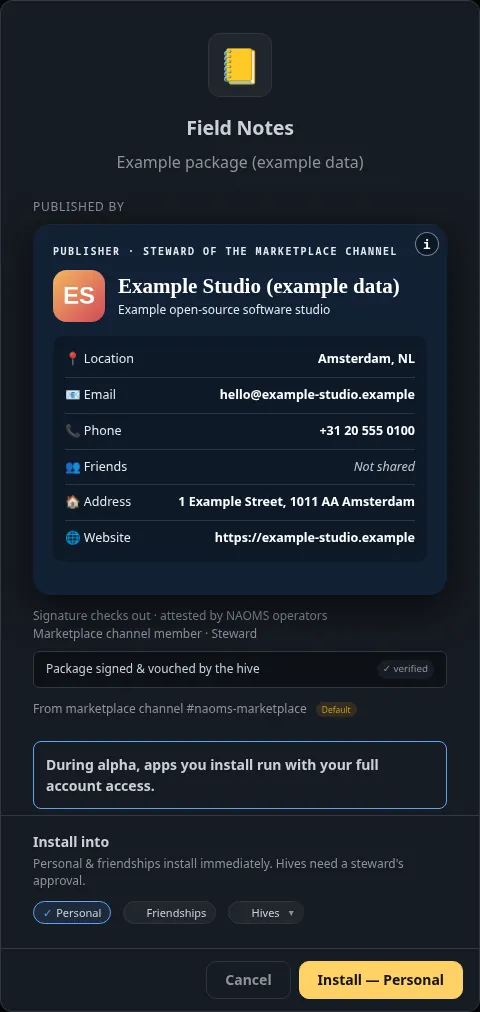
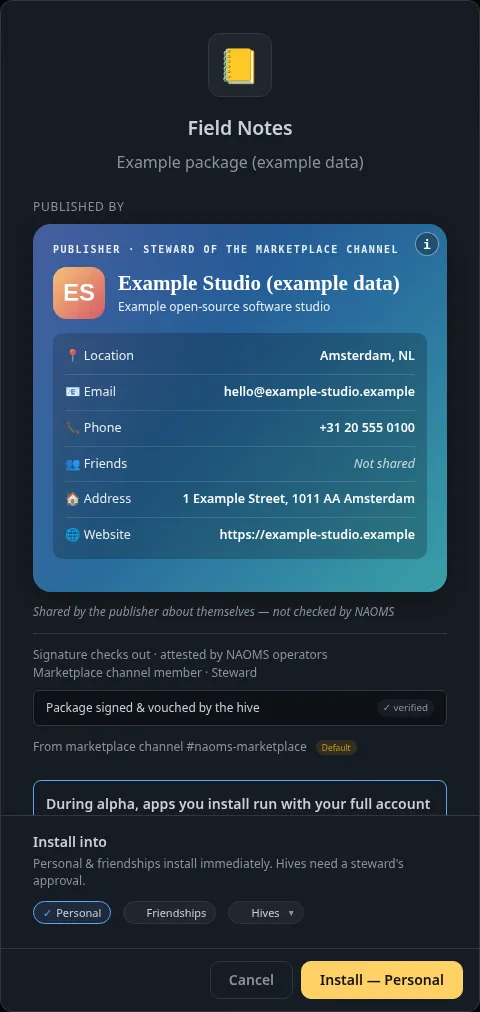
Install-card post: publisher R-card now the gradient business card in light and dark

diff --git a/posts/2026-10-05-the-install-card-now-says-where-a-package-came-from.html b/posts/2026-10-05-the-install-card-now-says-where-a-package-came-from.html
@@ -11,13 +11,14 @@
 <div class="snav"><h4>Categories</h4><a class="facet" data-ft="voice" data-fv="architect" data-label="Architect" href="../archive.html#voice=architect">Architect<span class="n">132</span></a><a class="facet" data-ft="voice" data-fv="philosopher" data-label="Philosopher" href="../archive.html#voice=philosopher">Philosopher<span class="n">35</span></a><a class="facet" data-ft="voice" data-fv="confession" data-label="Confession" href="../archive.html#voice=confession">Confession<span class="n">13</span></a><a class="facet" data-ft="voice" data-fv="journal" data-label="Journal" href="../archive.html#voice=journal">Journal<span class="n">13</span></a><a class="facet" data-ft="voice" data-fv="teacher" data-label="Teacher" href="../archive.html#voice=teacher">Teacher<span class="n">40</span></a><a class="facet" data-ft="voice" data-fv="dispatch" data-label="Dispatch" href="../archive.html#voice=dispatch">Dispatch<span class="n">26</span></a><a class="facet" data-ft="voice" data-fv="appreciation" data-label="Fellow Travelers" href="../archive.html#voice=appreciation">Fellow Travelers<span class="n">19</span></a></div>
 <div class="snav"><h4>Tags</h4><a class="facet" data-ft="tag" data-fv="bug-fixed" data-label="Bug fixed" href="../archive.html#tag=bug-fixed">Bug fixed<span class="n">33</span></a></div>
 <div class="snav"><h4>Months</h4><a class="facet" data-ft="month" data-fv="2026-10" data-label="October 2026" href="../archive.html#month=2026-10">October 2026</a><a class="facet" data-ft="month" data-fv="2026-09" data-label="September 2026" href="../archive.html#month=2026-09">September 2026</a><a class="facet" data-ft="month" data-fv="2026-08" data-label="August 2026" href="../archive.html#month=2026-08">August 2026</a><a class="facet" data-ft="month" data-fv="2026-07" data-label="July 2026" href="../archive.html#month=2026-07">July 2026</a><a class="facet" data-ft="month" data-fv="2026-06" data-label="June 2026" href="../archive.html#month=2026-06">June 2026</a><a class="facet" data-ft="month" data-fv="2026-05" data-label="May 2026" href="../archive.html#month=2026-05">May 2026</a><a class="facet" data-ft="month" data-fv="2026-04" data-label="April 2026" href="../archive.html#month=2026-04">April 2026</a><a class="facet" data-ft="month" data-fv="2026-03" data-label="March 2026" href="../archive.html#month=2026-03">March 2026</a></div><div class="snav"><h4>Weeks</h4><a class="facet" data-ft="week" data-fv="30" data-label="Wk 30" href="../archive.html#week=30">Wk 30<span class="n">Oct 5 – Oct 5</span></a><a class="facet" data-ft="week" data-fv="29" data-label="Wk 29" href="../archive.html#week=29">Wk 29<span class="n">Sep 28 – Oct 4</span></a><a class="facet" data-ft="week" data-fv="28" data-label="Wk 28" href="../archive.html#week=28">Wk 28<span class="n">Sep 21 – Sep 27</span></a><a class="facet" data-ft="week" data-fv="27" data-label="Wk 27" href="../archive.html#week=27">Wk 27<span class="n">Sep 14 – Sep 20</span></a><a class="facet" data-ft="week" data-fv="26" data-label="Wk 26" href="../archive.html#week=26">Wk 26<span class="n">Sep 7 – Sep 13</span></a><a class="facet" data-ft="week" data-fv="25" data-label="Wk 25" href="../archive.html#week=25">Wk 25<span class="n">Aug 31 – Sep 6</span></a><a class="facet" data-ft="week" data-fv="24" data-label="Wk 24" href="../archive.html#week=24">Wk 24<span class="n">Aug 24 – Aug 30</span></a><a class="facet" data-ft="week" data-fv="23" data-label="Wk 23" href="../archive.html#week=23">Wk 23<span class="n">Aug 17 – Aug 23</span></a><a class="facet" data-ft="week" data-fv="22" data-label="Wk 22" href="../archive.html#week=22">Wk 22<span class="n">Aug 10 – Aug 16</span></a><a class="facet" data-ft="week" data-fv="21" data-label="Wk 21" href="../archive.html#week=21">Wk 21<span class="n">Aug 3 – Aug 9</span></a><a class="facet" data-ft="week" data-fv="20" data-label="Wk 20" href="../archive.html#week=20">Wk 20<span class="n">Jul 27 – Aug 2</span></a><a class="facet" data-ft="week" data-fv="19" data-label="Wk 19" href="../archive.html#week=19">Wk 19<span class="n">Jul 20 – Jul 26</span></a><a class="facet" data-ft="week" data-fv="18" data-label="Wk 18" href="../archive.html#week=18">Wk 18<span class="n">Jul 13 – Jul 19</span></a><a class="facet" data-ft="week" data-fv="17" data-label="Wk 17" href="../archive.html#week=17">Wk 17<span class="n">Jul 6 – Jul 12</span></a><a class="facet" data-ft="week" data-fv="16" data-label="Wk 16" href="../archive.html#week=16">Wk 16<span class="n">Jun 29 – Jul 5</span></a><a class="facet" data-ft="week" data-fv="15" data-label="Wk 15" href="../archive.html#week=15">Wk 15<span class="n">Jun 22 – Jun 28</span></a><a class="facet" data-ft="week" data-fv="14" data-label="Wk 14" href="../archive.html#week=14">Wk 14<span class="n">Jun 15 – Jun 21</span></a><a class="facet" data-ft="week" data-fv="13" data-label="Wk 13" href="../archive.html#week=13">Wk 13<span class="n">Jun 8 – Jun 14</span></a><a class="facet" data-ft="week" data-fv="12" data-label="Wk 12" href="../archive.html#week=12">Wk 12<span class="n">Jun 1 – Jun 7</span></a><a class="facet" data-ft="week" data-fv="11" data-label="Wk 11" href="../archive.html#week=11">Wk 11<span class="n">May 25 – May 31</span></a><a class="facet" data-ft="week" data-fv="10" data-label="Wk 10" href="../archive.html#week=10">Wk 10<span class="n">May 18 – May 24</span></a><a class="facet" data-ft="week" data-fv="9" data-label="Wk 9" href="../archive.html#week=9">Wk 9<span class="n">May 11 – May 17</span></a><a class="facet" data-ft="week" data-fv="8" data-label="Wk 8" href="../archive.html#week=8">Wk 8<span class="n">May 4 – May 10</span></a><a class="facet" data-ft="week" data-fv="7" data-label="Wk 7" href="../archive.html#week=7">Wk 7<span class="n">Apr 27 – May 3</span></a><a class="facet" data-ft="week" data-fv="6" data-label="Wk 6" href="../archive.html#week=6">Wk 6<span class="n">Apr 20 – Apr 26</span></a><a class="facet" data-ft="week" data-fv="5" data-label="Wk 5" href="../archive.html#week=5">Wk 5<span class="n">Apr 13 – Apr 19</span></a><a class="facet" data-ft="week" data-fv="4" data-label="Wk 4" href="../archive.html#week=4">Wk 4<span class="n">Apr 6 – Apr 12</span></a><a class="facet" data-ft="week" data-fv="3" data-label="Wk 3" href="../archive.html#week=3">Wk 3<span class="n">Mar 30 – Apr 5</span></a><a class="facet" data-ft="week" data-fv="2" data-label="Wk 2" href="../archive.html#week=2">Wk 2<span class="n">Mar 23 – Mar 29</span></a><a class="facet" data-ft="week" data-fv="1" data-label="Wk 1" href="../archive.html#week=1">Wk 1<span class="n">Mar 16 – Mar 22</span></a></div>
-<p style="font-size:11px;color:var(--muted);line-height:1.45;margin-top:-2px">Pick one per group on the <a href="../archive.html">All</a> page; choices from different groups narrow together (e.g. Technology&nbsp;+&nbsp;Teacher).</p></aside><div class="content"><article class="post"><h1>The install card now says where a package came from</h1><p class="subtitle">Before you install, the card names the publisher and whether the signature checks out, and for a package offered through a channel it also says which channel and whether you have vouched for it.</p><div class="meta"><span class="badge str-product">Product</span> <span class="badge b-teacher">Teacher</span> <span class="badge free">free</span> <span>October 5, 2026</span><span>·</span><span>6 min read</span><span>·</span><span>craft</span></div><div class="tldr"><span class="tldr-k">TL;DR</span> The consent card shown before you install a package shows the publisher's business card and says whether the release signature checks out. When the package was offered through a channel, it also says which channel and your standing with it. A channel is either the build's default, one you have verified yourself, or an unverified one. On an unverified channel a hive install is refused and a personal install needs your explicit confirmation. A 'Verify this channel' button records your decision on your own device. This build pins no default channel yet.</div><div class="markdown-body"><p>Installing software is a trust decision made in a few seconds, on one small card. This post is about what that card now tells you.</p>
-<p><img src="assets/2026-10-05-install-card-rcard-light.webp" alt="The install card for a sample package called &quot;Field Notes&quot; (description &quot;Example package (example data)&quot;) in the light theme. Under the heading &quot;Published by&quot; is the publisher's business card, drawn dark: a header &quot;Publisher · Steward of the marketplace channel&quot;, the initials &quot;ES&quot; as the avatar, the name &quot;Example Studio (example data)&quot; and the tagline &quot;Example open-source software studio&quot;. Its rows read Location Amsterdam, NL; Email hello@example-studio.example; Phone +31 20 555 0100; Friends Not shared; Address 1 Example Street, 1011 AA Amsterdam; Website https://example-studio.example. Below the card: &quot;Signature checks out · attested by NAOMS operators&quot;, &quot;Marketplace channel member · Steward&quot;, a box &quot;Package signed &amp; vouched by the hive&quot; with a &quot;verified&quot; badge, and &quot;From marketplace channel #naoms-marketplace&quot; with a &quot;Default&quot; badge. Then a notice &quot;During alpha, apps you install run with your full account access.&quot;, the Install into choices Personal, Friendships and Hives, and the Cancel and &quot;Install — Personal&quot; buttons. Sample data on a test setup; the Default badge is there because the sample data sets it." /></p>
+<p style="font-size:11px;color:var(--muted);line-height:1.45;margin-top:-2px">Pick one per group on the <a href="../archive.html">All</a> page; choices from different groups narrow together (e.g. Technology&nbsp;+&nbsp;Teacher).</p></aside><div class="content"><article class="post"><h1>The install card now says where a package came from</h1><p class="subtitle">Before you install, the card names the publisher and whether the signature checks out, and for a package offered through a channel it also says which channel and whether you have vouched for it.</p><div class="meta"><span class="badge str-product">Product</span> <span class="badge b-teacher">Teacher</span> <span class="badge free">free</span> <span>October 5, 2026</span><span>·</span><span>7 min read</span><span>·</span><span>craft</span></div><div class="tldr"><span class="tldr-k">TL;DR</span> The consent card shown before you install a package shows the publisher's business card and says whether the release signature checks out. When the package was offered through a channel, it also says which channel and your standing with it. A channel is either the build's default, one you have verified yourself, or an unverified one. On an unverified channel a hive install is refused and a personal install needs your explicit confirmation. A 'Verify this channel' button records your decision on your own device. This build pins no default channel yet.</div><div class="markdown-body"><p>Installing software is a trust decision made in a few seconds, on one small card. This post is about what that card now tells you.</p>
+<p><img src="assets/2026-10-05-install-card-rcard-light.webp" alt="The install card for a sample package called &quot;Field Notes&quot; (description &quot;Example package (example data)&quot;) in the light theme. Under the heading &quot;Published by&quot; is the publisher's business card, drawn as a blue-to-teal gradient card: a header &quot;Publisher · Steward of the marketplace channel&quot;, the initials &quot;ES&quot; as the avatar, the name &quot;Example Studio (example data)&quot; and the tagline &quot;Example open-source software studio&quot;. Its rows read Location Amsterdam, NL; Email hello@example-studio.example; Phone +31 20 555 0100; Friends Not shared; Address 1 Example Street, 1011 AA Amsterdam; Website https://example-studio.example. Below the card, in small italic text: &quot;Shared by the publisher about themselves — not checked by NAOMS&quot;, then a thin rule, then &quot;Signature checks out · attested by NAOMS operators&quot;, &quot;Marketplace channel member · Steward&quot;, a box &quot;Package signed &amp; vouched by the hive&quot; with a &quot;verified&quot; badge, and &quot;From marketplace channel #naoms-marketplace&quot; with a &quot;Default&quot; badge. Then the start of a notice &quot;During alpha, apps you install run with your full account access&quot; (cut off at its lower edge by the Install into area), the Install into choices Personal, Friendships and Hives, and the Cancel and &quot;Install — Personal&quot; buttons. Sample data on a test setup; the Default badge is there because the sample data sets it." /></p>
 <h2 id="some-words-first"><a class="anchor" aria-hidden="true" tabindex="-1" href="#some-words-first"><svg class="octicon octicon-link" viewBox="0 0 16 16" width="16" height="16" aria-hidden="true"><path fill-rule="evenodd" d="M7.775 3.275a.75.75 0 001.06 1.06l1.25-1.25a2 2 0 112.83 2.83l-2.5 2.5a2 2 0 01-2.83 0 .75.75 0 00-1.06 1.06 3.5 3.5 0 004.95 0l2.5-2.5a3.5 3.5 0 00-4.95-4.95l-1.25 1.25zm-4.69 9.64a2 2 0 010-2.83l2.5-2.5a2 2 0 012.83 0 .75.75 0 001.06-1.06 3.5 3.5 0 00-4.95 0l-2.5 2.5a3.5 3.5 0 004.95 4.95l1.25-1.25a.75.75 0 00-1.06-1.06l-1.25 1.25a2 2 0 01-2.83 0z"></path></svg></a>Some words first</h2>
 <p>A <strong>package</strong> is an installable piece of software. A <strong>publisher</strong> is whoever released it. Each release is <strong>signed</strong>: the publisher's device attaches a mathematical stamp that only their key can produce, so a change to the package after signing would make the stamp stop matching. A <strong>hive</strong> is a group of people sharing a record; a <strong>channel</strong> is a shared space inside a hive where members announce things; a <strong>steward</strong> is a person with authority over a channel. A <strong>marketplace channel</strong> is a channel a steward has authorised as a place where packages are announced.</p>
 <h2 id="what-the-card-shows"><a class="anchor" aria-hidden="true" tabindex="-1" href="#what-the-card-shows"><svg class="octicon octicon-link" viewBox="0 0 16 16" width="16" height="16" aria-hidden="true"><path fill-rule="evenodd" d="M7.775 3.275a.75.75 0 001.06 1.06l1.25-1.25a2 2 0 112.83 2.83l-2.5 2.5a2 2 0 01-2.83 0 .75.75 0 00-1.06 1.06 3.5 3.5 0 004.95 0l2.5-2.5a3.5 3.5 0 00-4.95-4.95l-1.25 1.25zm-4.69 9.64a2 2 0 010-2.83l2.5-2.5a2 2 0 012.83 0 .75.75 0 001.06-1.06 3.5 3.5 0 00-4.95 0l-2.5 2.5a3.5 3.5 0 004.95 4.95l1.25-1.25a.75.75 0 00-1.06-1.06l-1.25 1.25a2 2 0 01-2.83 0z"></path></svg></a>What the card shows</h2>
 <p>The pictures below are the install card in the app, with sample data on a test setup: the package is a made-up "Field Notes" and the publisher a made-up "Example Studio". The "Default" badge and the "attested by NAOMS operators" line appear in these pictures only because the sample data sets them. This build pins no default channel yet (more on that below).</p>
-<p><img src="assets/2026-10-05-install-card-rcard-dark.webp" alt="The same install card in the dark theme: same package, same business card for &quot;Example Studio (example data)&quot; with the same rows, same signature and channel lines including the &quot;Default&quot; badge from the sample data, and the same Install into choices with Cancel and &quot;Install — Personal&quot;." /></p>
+<p><img src="assets/2026-10-05-install-card-rcard-dark.webp" alt="The same install card in the dark theme: same package, the same gradient business card for &quot;Example Studio (example data)&quot; with the same rows, then the same italic note, the thin rule, the signature lines, the &quot;verified&quot; badge on the package box and the channel line with the &quot;Default&quot; badge from the sample data, and the same Install into choices with Cancel and &quot;Install — Personal&quot;. Sample data on a test setup; the Default badge is there because the sample data sets it." /></p>
+<p>The business card uses the same blue-to-teal gradient business-card look as the app's other R-cards, in both the light and the dark theme.</p>
 <p>When the device holds no card for the publisher, the Published by area says so instead:</p>
 <p><img src="assets/2026-10-05-install-card-nocard-light.webp" alt="The same install card in the light theme, but under &quot;Published by&quot; there is a dashed box reading &quot;No business card shared by this publisher&quot;. The signature, member and channel lines and the &quot;Default&quot; badge are unchanged from the sample data. Below the notice, a section &quot;Declared by the publisher — not enforced yet&quot; lists one item, &quot;storage.read&quot;. Sample data on a test setup." /></p>
 <p>Reading the card from the top:</p>

diff --git a/stream-product.html b/stream-product.html
@@ -13,7 +13,7 @@
 <div class="snav"><h4>Months</h4><a class="facet" data-ft="month" data-fv="2026-10" data-label="October 2026" href="archive.html#month=2026-10">October 2026</a><a class="facet" data-ft="month" data-fv="2026-09" data-label="September 2026" href="archive.html#month=2026-09">September 2026</a><a class="facet" data-ft="month" data-fv="2026-08" data-label="August 2026" href="archive.html#month=2026-08">August 2026</a><a class="facet" data-ft="month" data-fv="2026-07" data-label="July 2026" href="archive.html#month=2026-07">July 2026</a><a class="facet" data-ft="month" data-fv="2026-06" data-label="June 2026" href="archive.html#month=2026-06">June 2026</a><a class="facet" data-ft="month" data-fv="2026-05" data-label="May 2026" href="archive.html#month=2026-05">May 2026</a><a class="facet" data-ft="month" data-fv="2026-04" data-label="April 2026" href="archive.html#month=2026-04">April 2026</a><a class="facet" data-ft="month" data-fv="2026-03" data-label="March 2026" href="archive.html#month=2026-03">March 2026</a></div><div class="snav"><h4>Weeks</h4><a class="facet" data-ft="week" data-fv="30" data-label="Wk 30" href="archive.html#week=30">Wk 30<span class="n">Oct 5 – Oct 5</span></a><a class="facet" data-ft="week" data-fv="29" data-label="Wk 29" href="archive.html#week=29">Wk 29<span class="n">Sep 28 – Oct 4</span></a><a class="facet" data-ft="week" data-fv="28" data-label="Wk 28" href="archive.html#week=28">Wk 28<span class="n">Sep 21 – Sep 27</span></a><a class="facet" data-ft="week" data-fv="27" data-label="Wk 27" href="archive.html#week=27">Wk 27<span class="n">Sep 14 – Sep 20</span></a><a class="facet" data-ft="week" data-fv="26" data-label="Wk 26" href="archive.html#week=26">Wk 26<span class="n">Sep 7 – Sep 13</span></a><a class="facet" data-ft="week" data-fv="25" data-label="Wk 25" href="archive.html#week=25">Wk 25<span class="n">Aug 31 – Sep 6</span></a><a class="facet" data-ft="week" data-fv="24" data-label="Wk 24" href="archive.html#week=24">Wk 24<span class="n">Aug 24 – Aug 30</span></a><a class="facet" data-ft="week" data-fv="23" data-label="Wk 23" href="archive.html#week=23">Wk 23<span class="n">Aug 17 – Aug 23</span></a><a class="facet" data-ft="week" data-fv="22" data-label="Wk 22" href="archive.html#week=22">Wk 22<span class="n">Aug 10 – Aug 16</span></a><a class="facet" data-ft="week" data-fv="21" data-label="Wk 21" href="archive.html#week=21">Wk 21<span class="n">Aug 3 – Aug 9</span></a><a class="facet" data-ft="week" data-fv="20" data-label="Wk 20" href="archive.html#week=20">Wk 20<span class="n">Jul 27 – Aug 2</span></a><a class="facet" data-ft="week" data-fv="19" data-label="Wk 19" href="archive.html#week=19">Wk 19<span class="n">Jul 20 – Jul 26</span></a><a class="facet" data-ft="week" data-fv="18" data-label="Wk 18" href="archive.html#week=18">Wk 18<span class="n">Jul 13 – Jul 19</span></a><a class="facet" data-ft="week" data-fv="17" data-label="Wk 17" href="archive.html#week=17">Wk 17<span class="n">Jul 6 – Jul 12</span></a><a class="facet" data-ft="week" data-fv="16" data-label="Wk 16" href="archive.html#week=16">Wk 16<span class="n">Jun 29 – Jul 5</span></a><a class="facet" data-ft="week" data-fv="15" data-label="Wk 15" href="archive.html#week=15">Wk 15<span class="n">Jun 22 – Jun 28</span></a><a class="facet" data-ft="week" data-fv="14" data-label="Wk 14" href="archive.html#week=14">Wk 14<span class="n">Jun 15 – Jun 21</span></a><a class="facet" data-ft="week" data-fv="13" data-label="Wk 13" href="archive.html#week=13">Wk 13<span class="n">Jun 8 – Jun 14</span></a><a class="facet" data-ft="week" data-fv="12" data-label="Wk 12" href="archive.html#week=12">Wk 12<span class="n">Jun 1 – Jun 7</span></a><a class="facet" data-ft="week" data-fv="11" data-label="Wk 11" href="archive.html#week=11">Wk 11<span class="n">May 25 – May 31</span></a><a class="facet" data-ft="week" data-fv="10" data-label="Wk 10" href="archive.html#week=10">Wk 10<span class="n">May 18 – May 24</span></a><a class="facet" data-ft="week" data-fv="9" data-label="Wk 9" href="archive.html#week=9">Wk 9<span class="n">May 11 – May 17</span></a><a class="facet" data-ft="week" data-fv="8" data-label="Wk 8" href="archive.html#week=8">Wk 8<span class="n">May 4 – May 10</span></a><a class="facet" data-ft="week" data-fv="7" data-label="Wk 7" href="archive.html#week=7">Wk 7<span class="n">Apr 27 – May 3</span></a><a class="facet" data-ft="week" data-fv="6" data-label="Wk 6" href="archive.html#week=6">Wk 6<span class="n">Apr 20 – Apr 26</span></a><a class="facet" data-ft="week" data-fv="5" data-label="Wk 5" href="archive.html#week=5">Wk 5<span class="n">Apr 13 – Apr 19</span></a><a class="facet" data-ft="week" data-fv="4" data-label="Wk 4" href="archive.html#week=4">Wk 4<span class="n">Apr 6 – Apr 12</span></a><a class="facet" data-ft="week" data-fv="3" data-label="Wk 3" href="archive.html#week=3">Wk 3<span class="n">Mar 30 – Apr 5</span></a><a class="facet" data-ft="week" data-fv="2" data-label="Wk 2" href="archive.html#week=2">Wk 2<span class="n">Mar 23 – Mar 29</span></a><a class="facet" data-ft="week" data-fv="1" data-label="Wk 1" href="archive.html#week=1">Wk 1<span class="n">Mar 16 – Mar 22</span></a></div>
 <p style="font-size:11px;color:var(--muted);line-height:1.45;margin-top:-2px">Pick one per group on the <a href="archive.html">All</a> page; choices from different groups narrow together (e.g. Technology&nbsp;+&nbsp;Teacher).</p></aside><div class="content"><div class="streamhead" style="--dc:var(--ok);--dbg:var(--ok-bg)"><div class="eyebrow" style="color:var(--ok)">Stream</div><h2>Product</h2><p>What you can do with it, and what comes next — for people who'd build with NAOMS.</p><p class="streamgoal"><strong>Where this is going:</strong> Software you can build on that never holds your users' data hostage.</p></div><div class="card"><div class="card-body"><div class="meta"><span class="badge str-product">Product</span> <span class="badge b-teacher">Teacher</span>  <span class="badge free">free</span><span>October 5, 2026</span><span>·</span><span>4 min read</span><span>·</span><span>craft</span></div>
 <h3><a href="posts/2026-10-05-a-store-section-for-the-channels-that-offer-packages.html">A store section for the channels that offer packages</a></h3><p class="sum">The Packages store has a new 'Marketplace channels' section at the bottom of its Discover page. It lists the channels, from the hives your device belongs to, that a steward has authorised as places packages are offered. Each row shows the channel's name, a Joined mark if you are in it, and a Join button only when joining is allowed for you. Channels you have joined come ahead of the rest, after the default if there is one. A failed read is shown as an error, not as an empty list. A 'Default' badge exists but no channel carries it in this build yet.</p></div></div><div class="card"><div class="card-body"><div class="meta"><span class="badge str-product">Product</span> <span class="badge b-teacher">Teacher</span>  <span class="badge free">free</span><span>October 5, 2026</span><span>·</span><span>4 min read</span><span>·</span><span>craft</span></div>
-<h3><a href="posts/2026-10-05-a-store-you-can-look-at-with-a-bug-button-on-every-page.html">A store you can look at, with a bug button on every listing</a></h3><p class="sum">Two sets of changes to the in-app store. First, listings now look like a store: banners shown whole at a fixed shape, a strip of screenshots you can open full size, light and dark artwork that follows your theme, a maturity badge such as Beta, and a featured band sized to stay within about 70% of the window's height. Second, package and model listing pages have a Report a bug button. On a device set up to file reports it shows who can read the report, 'the NAOMS maintainers' repo channel', before you write anything. On a device that is not set up it stays disabled, with a reason.</p></div><div class="card-thumb"><img src="posts/assets/2026-10-05-listing-report-a-bug-dark.webp" alt="" loading="lazy"></div></div><div class="card"><div class="card-body"><div class="meta"><span class="badge str-product">Product</span> <span class="badge b-teacher">Teacher</span>  <span class="badge free">free</span><span>October 5, 2026</span><span>·</span><span>6 min read</span><span>·</span><span>craft</span></div>
+<h3><a href="posts/2026-10-05-a-store-you-can-look-at-with-a-bug-button-on-every-page.html">A store you can look at, with a bug button on every listing</a></h3><p class="sum">Two sets of changes to the in-app store. First, listings now look like a store: banners shown whole at a fixed shape, a strip of screenshots you can open full size, light and dark artwork that follows your theme, a maturity badge such as Beta, and a featured band sized to stay within about 70% of the window's height. Second, package and model listing pages have a Report a bug button. On a device set up to file reports it shows who can read the report, 'the NAOMS maintainers' repo channel', before you write anything. On a device that is not set up it stays disabled, with a reason.</p></div><div class="card-thumb"><img src="posts/assets/2026-10-05-listing-report-a-bug-dark.webp" alt="" loading="lazy"></div></div><div class="card"><div class="card-body"><div class="meta"><span class="badge str-product">Product</span> <span class="badge b-teacher">Teacher</span>  <span class="badge free">free</span><span>October 5, 2026</span><span>·</span><span>7 min read</span><span>·</span><span>craft</span></div>
 <h3><a href="posts/2026-10-05-the-install-card-now-says-where-a-package-came-from.html">The install card now says where a package came from</a></h3><p class="sum">The consent card shown before you install a package shows the publisher's business card and says whether the release signature checks out. When the package was offered through a channel, it also says which channel and your standing with it. A channel is either the build's default, one you have verified yourself, or an unverified one. On an unverified channel a hive install is refused and a personal install needs your explicit confirmation. A 'Verify this channel' button records your decision on your own device. This build pins no default channel yet.</p></div><div class="card-thumb"><img src="posts/assets/2026-10-05-install-card-rcard-light.webp" alt="" loading="lazy"></div></div><div class="card"><div class="card-body"><div class="meta"><span class="badge str-product">Product</span> <span class="badge b-architect">Architect</span>  <span class="badge free">free</span><span>September 21, 2026</span><span>·</span><span>6 min read</span><span>·</span><span>honest-surfaces</span></div>
 <h3><a href="posts/2026-09-21-your-first-chat-starts-empty.html">Your first chat starts empty, on purpose</a></h3><p class="sum">The concierge is the assistant built into NAOMS: you tell it what you want in your own words and it does the work through the same tools the app itself uses, and it is designed to go only as far as you allow. When you open a chat you no longer get a script and a menu of suggestions. You get the logo, a one-line greeting and an empty box, and the conversation starts with you.</p></div><div class="card-thumb"><img src="posts/assets/adapters-and-credentials-dark.webp" alt="" loading="lazy"></div></div><div class="card"><div class="card-body"><div class="meta"><span class="badge str-product">Product</span> <span class="badge b-architect">Architect</span>  <span class="badge free">free</span><span>September 18, 2026</span><span>·</span><span>14 min read</span><span>·</span><span>office-suite</span></div>
 <h3><a href="posts/2026-09-18-a-whole-office-suite-inside-naoms.html">A whole office suite inside NAOMS</a></h3><p class="sum">You can now create and open Word, Excel and PowerPoint files inside NAOMS, edit them in the full ONLYOFFICE editors, and have your work saved as you type, with the editors served from your own machine. When a document is shared, the people working on it can edit it together live from their own machines. One of those machines keeps the changes in order, and a machine that drops out catches up when it comes back.</p></div><div class="card-thumb"><img src="posts/assets/2026-09-27-office-docs-window-saved.png" alt="" loading="lazy"></div></div><div class="card"><div class="card-body"><div class="meta"><span class="badge str-product">Product</span> <span class="badge b-architect">Architect</span>  <span class="badge free">free</span><span>September 17, 2026</span><span>·</span><span>6 min read</span><span>·</span><span>governance</span></div>

diff --git a/archive.html b/archive.html
@@ -14,7 +14,7 @@
 <p style="font-size:11px;color:var(--muted);line-height:1.45;margin-top:-2px">Pick one per group on the <a href="archive.html">All</a> page; choices from different groups narrow together (e.g. Technology&nbsp;+&nbsp;Teacher).</p></aside><div class="content"><p class="lead">Every post, newest first — 278 from March 16, 2026 onward. Filter from the left: pick a stream, a category, a month or week — combine across groups to narrow it down.</p><div class="filterbar"><span>Showing <b id="fcount">278</b> of 278 posts</span><a class="clearf" id="clearf" style="display:none">clear all ✕</a></div><div class="chips" id="chips"></div><div class="card fcard" data-stream="product" data-voice="teacher" data-month="2026-10" data-week="30" data-tag=""><div class="card-body"><div class="meta"><span class="badge str-product">Product</span> <span class="badge b-teacher">Teacher</span>  <span class="badge free">free</span><span>October 5, 2026</span><span>·</span><span>4 min read</span><span>·</span><span>craft</span></div>
 <h3><a href="posts/2026-10-05-a-store-section-for-the-channels-that-offer-packages.html">A store section for the channels that offer packages</a></h3><p class="sum">The Packages store has a new 'Marketplace channels' section at the bottom of its Discover page. It lists the channels, from the hives your device belongs to, that a steward has authorised as places packages are offered. Each row shows the channel's name, a Joined mark if you are in it, and a Join button only when joining is allowed for you. Channels you have joined come ahead of the rest, after the default if there is one. A failed read is shown as an error, not as an empty list. A 'Default' badge exists but no channel carries it in this build yet.</p></div></div><div class="card fcard" data-stream="product" data-voice="teacher" data-month="2026-10" data-week="30" data-tag=""><div class="card-body"><div class="meta"><span class="badge str-product">Product</span> <span class="badge b-teacher">Teacher</span>  <span class="badge free">free</span><span>October 5, 2026</span><span>·</span><span>4 min read</span><span>·</span><span>craft</span></div>
 <h3><a href="posts/2026-10-05-a-store-you-can-look-at-with-a-bug-button-on-every-page.html">A store you can look at, with a bug button on every listing</a></h3><p class="sum">Two sets of changes to the in-app store. First, listings now look like a store: banners shown whole at a fixed shape, a strip of screenshots you can open full size, light and dark artwork that follows your theme, a maturity badge such as Beta, and a featured band sized to stay within about 70% of the window's height. Second, package and model listing pages have a Report a bug button. On a device set up to file reports it shows who can read the report, 'the NAOMS maintainers' repo channel', before you write anything. On a device that is not set up it stays disabled, with a reason.</p></div><div class="card-thumb"><img src="posts/assets/2026-10-05-listing-report-a-bug-dark.webp" alt="" loading="lazy"></div></div><div class="card fcard" data-stream="technology" data-voice="teacher" data-month="2026-10" data-week="30" data-tag=""><div class="card-body"><div class="meta"><span class="badge str-technology">Technology</span> <span class="badge b-teacher">Teacher</span>  <span class="badge free">free</span><span>October 5, 2026</span><span>·</span><span>6 min read</span><span>·</span><span>craft</span></div>
-<h3><a href="posts/2026-10-05-forgetting-is-a-pipeline-not-a-flag.html">Forgetting is a pipeline, not a flag</a></h3><p class="sum">This post covers 2026-10-05 up to about 06:00 UTC, the latest commit being a990e989157 on main at the time of writing. The main change: the right-to-forget path now erases a shared item from its search index, its four vector tables and its graph edges inside one transaction per item, refuses to hand erased content to the embedding step, and reports a refused write as refused. A second change cut the rule time of a bare manual check on one package from about 333 seconds to about 14 by skipping a tier of whole-repository rules and saying so out loud. Later work will be in a later post.</p></div></div><div class="card fcard" data-stream="product" data-voice="teacher" data-month="2026-10" data-week="30" data-tag=""><div class="card-body"><div class="meta"><span class="badge str-product">Product</span> <span class="badge b-teacher">Teacher</span>  <span class="badge free">free</span><span>October 5, 2026</span><span>·</span><span>6 min read</span><span>·</span><span>craft</span></div>
+<h3><a href="posts/2026-10-05-forgetting-is-a-pipeline-not-a-flag.html">Forgetting is a pipeline, not a flag</a></h3><p class="sum">This post covers 2026-10-05 up to about 06:00 UTC, the latest commit being a990e989157 on main at the time of writing. The main change: the right-to-forget path now erases a shared item from its search index, its four vector tables and its graph edges inside one transaction per item, refuses to hand erased content to the embedding step, and reports a refused write as refused. A second change cut the rule time of a bare manual check on one package from about 333 seconds to about 14 by skipping a tier of whole-repository rules and saying so out loud. Later work will be in a later post.</p></div></div><div class="card fcard" data-stream="product" data-voice="teacher" data-month="2026-10" data-week="30" data-tag=""><div class="card-body"><div class="meta"><span class="badge str-product">Product</span> <span class="badge b-teacher">Teacher</span>  <span class="badge free">free</span><span>October 5, 2026</span><span>·</span><span>7 min read</span><span>·</span><span>craft</span></div>
 <h3><a href="posts/2026-10-05-the-install-card-now-says-where-a-package-came-from.html">The install card now says where a package came from</a></h3><p class="sum">The consent card shown before you install a package shows the publisher's business card and says whether the release signature checks out. When the package was offered through a channel, it also says which channel and your standing with it. A channel is either the build's default, one you have verified yourself, or an unverified one. On an unverified channel a hive install is refused and a personal install needs your explicit confirmation. A 'Verify this channel' button records your decision on your own device. This build pins no default channel yet.</p></div><div class="card-thumb"><img src="posts/assets/2026-10-05-install-card-rcard-light.webp" alt="" loading="lazy"></div></div><div class="card fcard" data-stream="technology" data-voice="teacher" data-month="2026-10" data-week="29" data-tag=""><div class="card-body"><div class="meta"><span class="badge str-technology">Technology</span> <span class="badge b-teacher">Teacher</span>  <span class="badge free">free</span><span>October 4, 2026</span><span>·</span><span>6 min read</span><span>·</span><span>craft</span></div>
 <h3><a href="posts/2026-10-04-failures-that-used-to-look-like-success.html">Failures that used to look like success</a></h3><p class="sum">This post covers commits that landed on main during 2026-10-04 (UTC). Video import now stores one object and a ticketed range route can serve slices of it; the mail watcher reports when it stops listening and keeps unparseable mail; the search index writes atomically and reports failures on the health endpoint; the update snapshot no longer fails inside a transaction; and two small UI and query fixes landed. Several of these are first steps with stated gaps, listed at the end.</p></div></div><div class="card fcard" data-stream="technology" data-voice="teacher" data-month="2026-10" data-week="29" data-tag=""><div class="card-body"><div class="meta"><span class="badge str-technology">Technology</span> <span class="badge b-teacher">Teacher</span>  <span class="badge free">free</span><span>October 3, 2026</span><span>·</span><span>6 min read</span><span>·</span><span>craft</span></div>
 <h3><a href="posts/2026-10-03-saying-what-actually-happened.html">Saying what actually happened</a></h3><p class="sum">This post covers 2026-10-03 (UTC), as recorded in the commit messages we read. Dialogs for revoking a connection and removing shared data now state what the code does (record the request, deliver it at the next sync) rather than promising the other side is notified or has deleted anything. Email import opens the mailbox read-only so importing no longer marks mail as read, and decodes accented text correctly. A marketplace listing is now identified by its id together with its verified publisher. A revoked device of your own is dropped from live call media, and a friend's revoked device is refused when it tries to start a call. The boot-time update swap re-checks the staged files just before going live. Several results are interim or were not run by us for this post; the last section lists them.</p></div></div><div class="card fcard" data-stream="technology" data-voice="teacher" data-month="2026-10" data-week="29" data-tag=""><div class="card-body"><div class="meta"><span class="badge str-technology">Technology</span> <span class="badge b-teacher">Teacher</span>  <span class="badge free">free</span><span>October 2, 2026</span><span>·</span><span>6 min read</span><span>·</span><span>craft</span></div>
